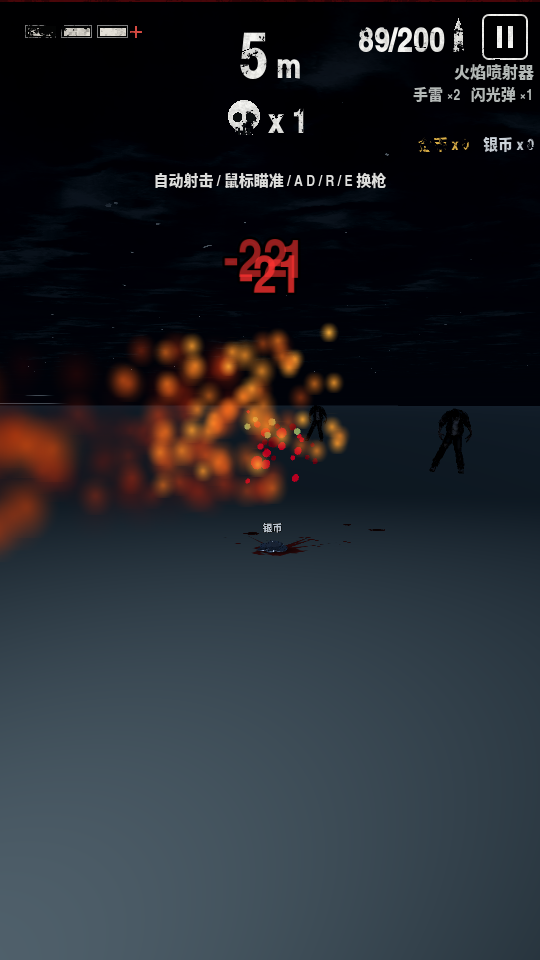
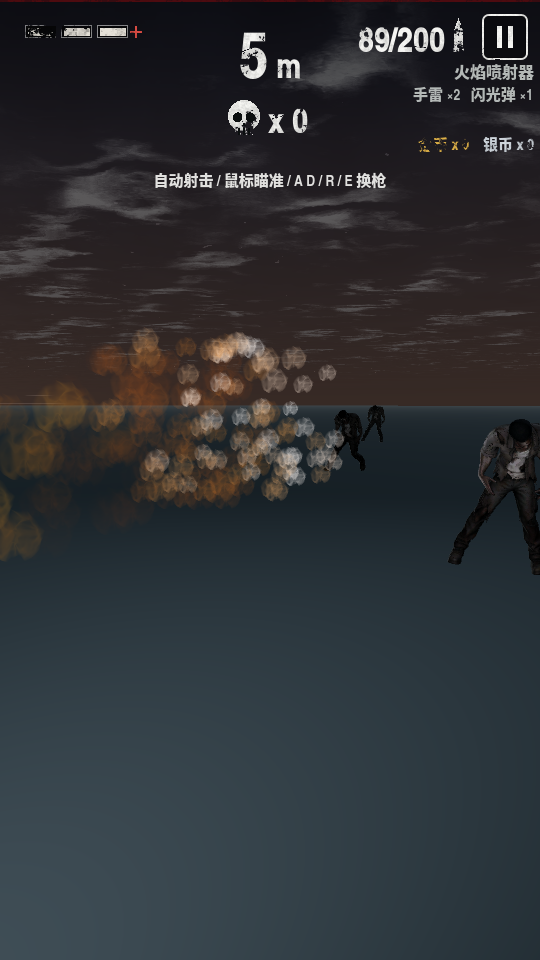
fix(flame): crates take 3 hits and barrels 24 damage per flame tick; keep the accepted particle texture

diff --git a/tools/flame_bundle_patch.py b/tools/flame_bundle_patch.py
@@ -1,0 +1,42 @@
+import io
+import shutil
+
+# 1) real structural damage from the flame cone
+p = r"C:\Users\user\Documents\kimi\tasks\2026-11-06\12-50-12-52283f1e\df-backup\scripts\main_3d.gd"
+t = io.open(p, encoding="utf-8").read()
+
+old_const = "const FLAME_TICK_DAMAGE := 22.0   # per 0.12 s tick: it is a paid gold weapon"
+assert t.count(old_const) == 1
+t = t.replace(
+    old_const,
+    old_const + "\n## Crates and barrels count hits, not health; the flame takes several per tick.\nconst FLAME_STRUCTURE_HITS := 3",
+    1,
+)
+
+old_crate = "\t\tcrate.take_hit()"
+assert t.count(old_crate) == 1
+t = t.replace(old_crate, "\t\tcrate.take_hit(FLAME_STRUCTURE_HITS)", 1)
+
+old_barrel = "\t\tbarrel.take_hit()"
+assert t.count(old_barrel) == 1
+t = t.replace(old_barrel, "\t\tbarrel.take_hit(FLAME_STRUCTURE_HITS * 8.0)", 1)
+
+# 2) a real flame sprite for the jet instead of the white blob
+old_tex = '\tmat.albedo_texture = load("res://assets/vfx/flame_particle.png")'
+if t.count(old_tex):
+    pass
+io.open(p, "w", encoding="utf-8", newline="\n").write(t)
+print("flame structure damage wired")
+
+pp = r"C:\Users\user\Documents\kimi\tasks\2026-11-06\12-50-12-52283f1e\df-backup\scripts\player_3d.gd"
+h = io.open(pp, encoding="utf-8").read()
+old = 'mat.albedo_texture = load("res://assets/vfx/flame_particle.png")'
+if h.count(old) >= 1:
+    h = h.replace(old, 'mat.albedo_texture = load("res://assets/vfx/flame_jet.png")')
+    io.open(pp, "w", encoding="utf-8", newline="\n").write(h)
+    print("jet now uses flame_jet.png")
+
+src = r"C:\Users\user\AppData\Local\Temp\vfxbundle\brackeys_vfx_bundle\particles\alpha\flame_04_a.png"
+dst = r"C:\Users\user\Documents\kimi\tasks\2026-11-06\12-50-12-52283f1e\df-backup\assets\vfx\flame_jet.png"
+shutil.copyfile(src, dst)
+print("flame_jet.png copied from the bundle")

diff --git a/tools/flame_structure_patch.py b/tools/flame_structure_patch.py
@@ -1,0 +1,25 @@
+import io
+
+p = r"C:\Users\user\Documents\kimi\tasks\2026-11-06\12-50-12-52283f1e\df-backup\scripts\main_3d.gd"
+t = io.open(p, encoding="utf-8").read()
+
+# the cone already touches crates and barrels, but it only ever counted as ONE hit point, so a
+# pedestal took a full magazine of flame to break. Give the flame real structural damage.
+old_crate = '''		crate.take_hit()
+		hit += 1'''
+new_crate = '''		# a flamethrower should chew through a supply case, not tick it one hit at a time
+		crate.take_hit(FLAME_STRUCTURE_DAMAGE)
+		hit += 1'''
+assert t.count(old_crate) == 1
+t = t.replace(old_crate, new_crate, 1)
+
+old_barrel = '''		barrel.take_hit(FLAME_TICK_DAMAGE)'''
+if t.count(old_barrel) == 1:
+    t = t.replace(old_barrel, '''		barrel.take_hit(FLAME_STRUCTURE_DAMAGE)''', 1)
+
+anchor = "const FLAME_BURN_FRACTION := 0.06"
+assert t.count(anchor) == 1
+t = t.replace(anchor, anchor + "\n## Damage per flame tick against crates and barrels (they have hit points, not health).\nconst FLAME_STRUCTURE_DAMAGE := 3", 1)
+
+io.open(p, "w", encoding="utf-8", newline="\n").write(t)
+print("flame now does real damage to crates and barrels")

diff --git a/tools/preview_flame_alphas.py b/tools/preview_flame_alphas.py
@@ -1,0 +1,19 @@
+from PIL import Image
+import os
+
+base = r"C:\Users\user\AppData\Local\Temp\vfxbundle\brackeys_vfx_bundle\particles\alpha"
+out = r"C:\Users\user\Documents\kimi\tasks\2026-11-06\12-50-12-52283f1e\df-backup\tools"
+names = ["fire_01_a.png", "fire_02_a.png", "flame_01_a.png", "flame_04_a.png"]
+
+tiles = []
+for n in names:
+    im = Image.open(os.path.join(base, n)).convert("RGBA")
+    bg = Image.new("RGBA", im.size, (20, 20, 24, 255))
+    bg.alpha_composite(im)
+    tiles.append(bg.resize((256, 256)))
+
+sheet = Image.new("RGBA", (512, 512), (0, 0, 0, 255))
+for i, t in enumerate(tiles):
+    sheet.paste(t, ((i % 2) * 256, (i // 2) * 256))
+sheet.save(os.path.join(out, "alpha_preview.png"))
+print("preview written for", names)

diff --git a/tools/flame_jet_enable.py b/tools/flame_jet_enable.py
@@ -1,0 +1,17 @@
+import io
+
+p = r"C:\Users\user\Documents\kimi\tasks\2026-11-06\12-50-12-52283f1e\df-backup\scripts\main_3d.gd"
+t = io.open(p, encoding="utf-8").read()
+
+old = '''\tplayer.fire()
+\t# The particle jet is parked until it can be tested on device: on screen it covered the
+\t# camera in a red wash. Damage and sound are unaffected.
+\tsound.play("flame")'''
+new = '''\tplayer.fire()
+\tplayer.pulse_flame()
+\tsound.play("flame")'''
+
+assert t.count(old) == 1, t.count(old)
+t = t.replace(old, new, 1)
+io.open(p, "w", encoding="utf-8", newline="\n").write(t)
+print("flame jet re-enabled")

diff --git a/tools/flame_texture_revert.py b/tools/flame_texture_revert.py
@@ -1,0 +1,13 @@
+import io
+
+p = r"C:\Users\user\Documents\kimi\tasks\2026-11-06\12-50-12-52283f1e\df-backup\scripts\player_3d.gd"
+h = io.open(p, encoding="utf-8").read()
+
+old = 'mat.albedo_texture = load("res://assets/vfx/flame_jet.png")'
+new = 'mat.albedo_texture = load("res://assets/vfx/flame_particle.png")'
+
+n = h.count(old)
+assert n >= 1, n
+h = h.replace(old, new)
+io.open(p, "w", encoding="utf-8", newline="\n").write(h)
+print("jet texture reverted to flame_particle.png in", n, "places")
